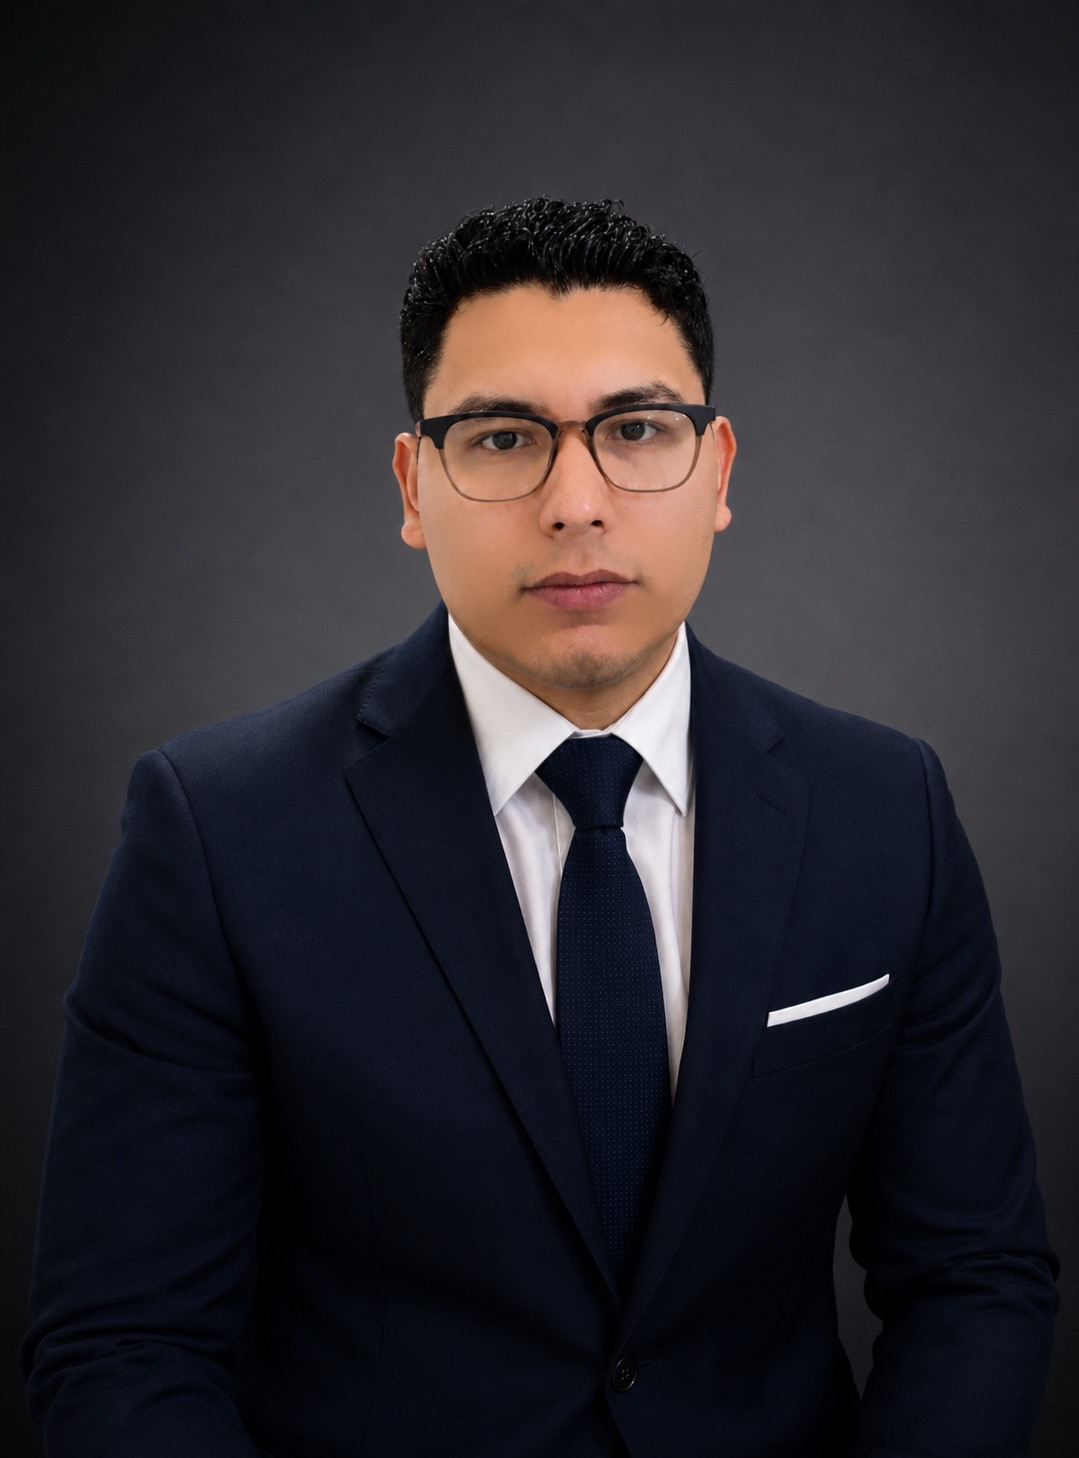
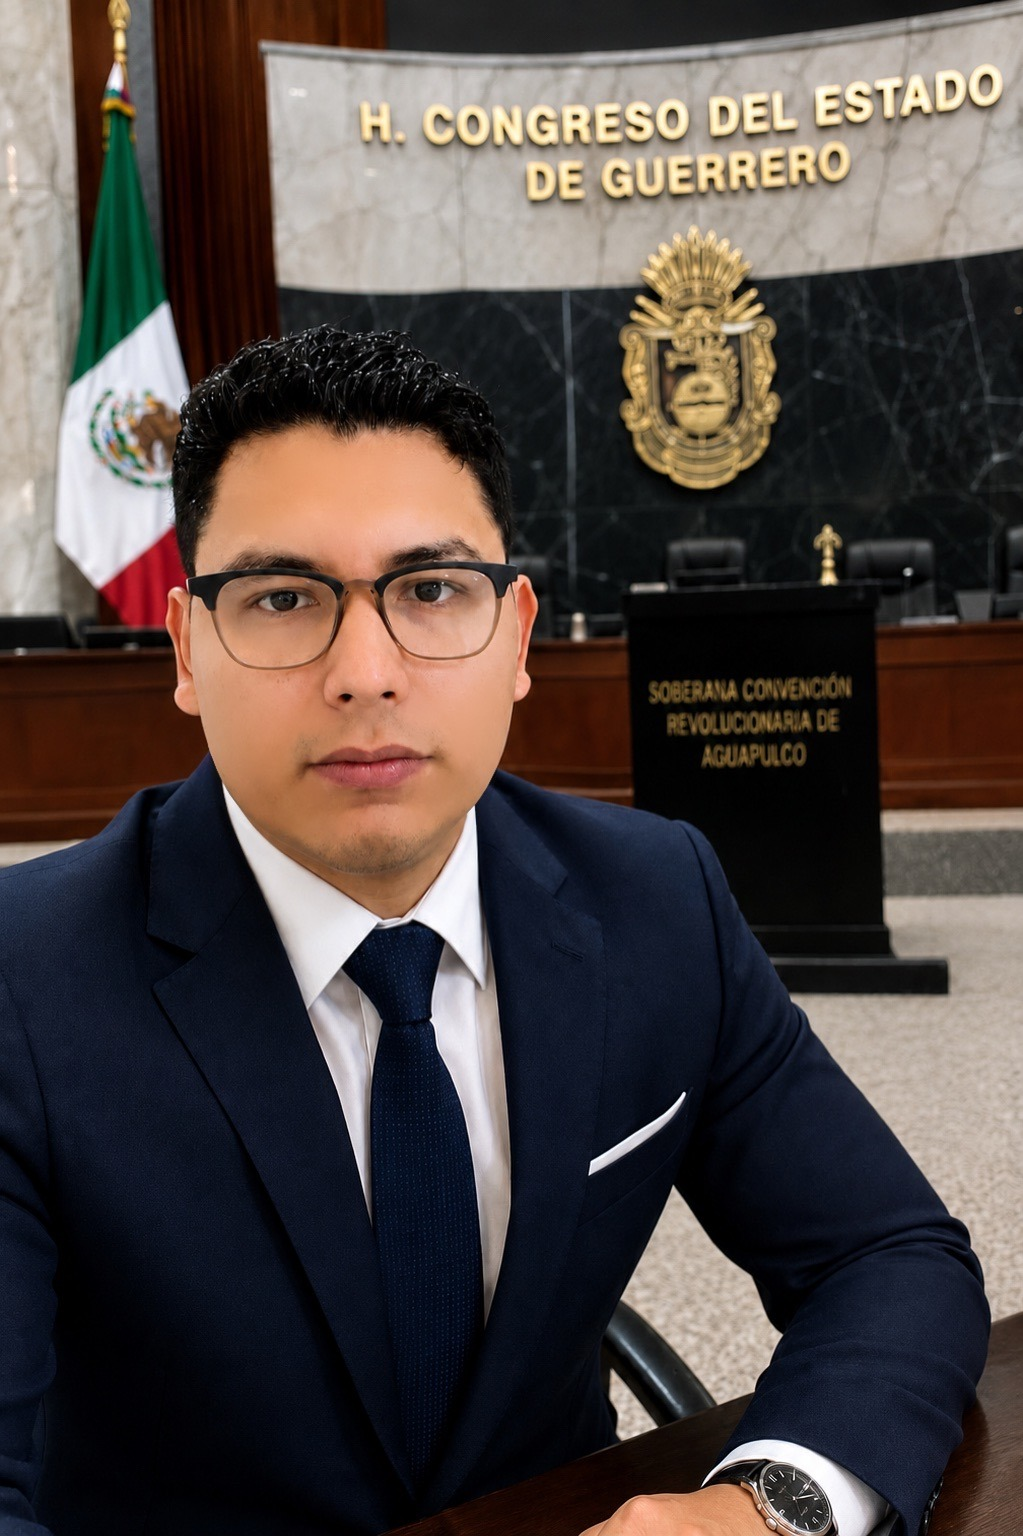
Update portrait photo and contact number with WhatsApp.

diff --git a/index.html b/index.html
@@ -92,7 +92,7 @@
             Atendemos asuntos penales, agrarios, civiles, familiares, administrativos
             y de amparo, acompañándote en cada etapa del proceso.
           </p>
-          <a class="btn btn-navy" href="tel:7445929222">Llamar al 744 592 9222</a>
+          <a class="btn btn-navy" href="tel:2212543869">Llamar al 221 254 3869</a>
         </div>
         <figure class="about-photo">
           <img
@@ -196,7 +196,7 @@
       <div class="cta-inner">
         <h2>Tu confianza, nuestro compromiso, <em>tu justicia</em>.</h2>
         <p>Agenda una consulta y recibe orientación clara sobre tu caso.</p>
-        <a class="btn btn-gold" href="tel:7445929222">Contáctanos · 744 592 9222</a>
+        <a class="btn btn-gold" href="tel:2212543869">Contáctanos · 221 254 3869</a>
       </div>
     </section>
 
@@ -212,7 +212,16 @@
               </span>
               <div>
                 <strong>Teléfono</strong>
-                <a href="tel:7445929222">744 592 9222</a>
+                <a href="tel:2212543869">221 254 3869</a>
+              </div>
+            </li>
+            <li>
+              <span class="contact-icon" aria-hidden="true">
+                <svg viewBox="0 0 24 24" fill="none" stroke="currentColor" stroke-width="1.5"><path d="M20.5 3.5A11 11 0 004.1 17.7L3 21l3.4-1A11 11 0 0020.5 3.5zm-8.5 17a9 9 0 01-4.6-1.3l-.3-.2-2.7.7.7-2.6-.2-.3A9 9 0 1112 20.5z"/></svg>
+              </span>
+              <div>
+                <strong>WhatsApp</strong>
+                <a href="https://wa.me/5212212543869" target="_blank" rel="noopener noreferrer">221 254 3869</a>
               </div>
             </li>
             <li>
@@ -270,7 +279,7 @@
     </div>
   </footer>
 
-  <a class="whatsapp-float" href="https://wa.me/5217445929222" target="_blank" rel="noopener noreferrer" aria-label="WhatsApp">
+  <a class="whatsapp-float" href="https://wa.me/5212212543869" target="_blank" rel="noopener noreferrer" aria-label="WhatsApp">
     <svg viewBox="0 0 24 24" fill="currentColor" aria-hidden="true"><path d="M20.5 3.5A11 11 0 004.1 17.7L3 21l3.4-1A11 11 0 0020.5 3.5zm-8.5 17a9 9 0 01-4.6-1.3l-.3-.2-2.7.7.7-2.6-.2-.3A9 9 0 1112 20.5zm5-6.7c-.3-.1-1.6-.8-1.9-.9s-.4-.1-.6.1-.7.9-.8 1-.3.2-.6.1a7.4 7.4 0 01-2.2-1.4 8.2 8.2 0 01-1.5-1.9c-.2-.3 0-.4.1-.6l.4-.5c.1-.2.2-.3.3-.5s0-.4 0-.5-.6-1.5-.8-2-.2-.5-.5-.5h-.5c-.2 0-.5.1-.7.3a2.4 2.4 0 00-.8 1.8 4.2 4.2 0 00.9 2.2 9.6 9.6 0 003.7 3.5 12 12 0 002.3.9 2.7 2.7 0 001.6.1 3.1 3.1 0 001.4-1c.2-.3.2-.5.1-.6z"/></svg>
   </a>
 